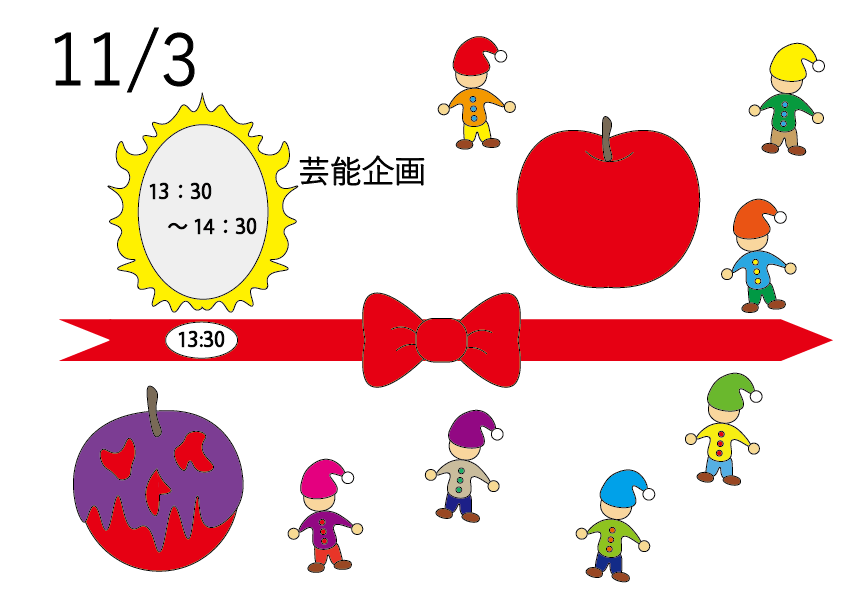
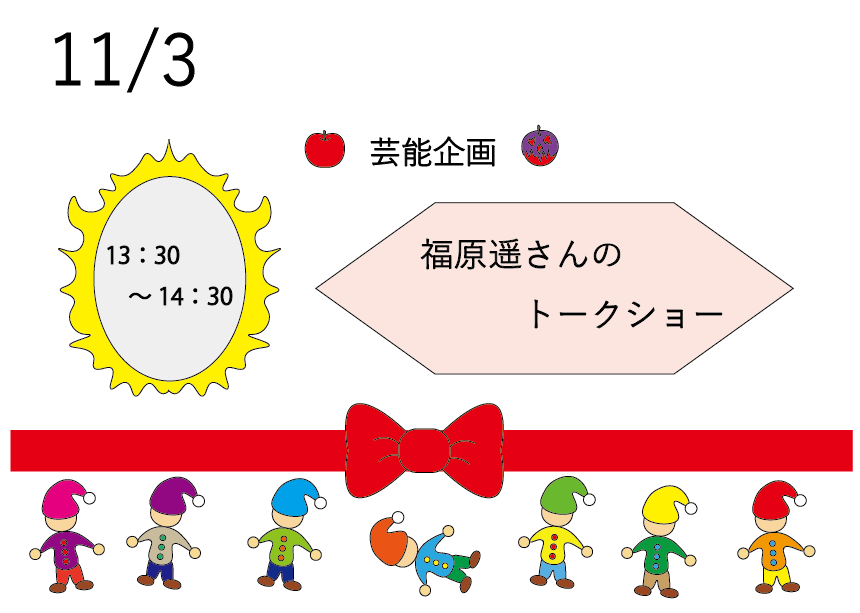
mainstage_fixed

diff --git a/html/page_time-table.html b/html/page_time-table.html
@@ -116,7 +116,6 @@
             </div>
 
             <div class="main-contents">
-                <!--test4 10/25-->
 
                 <!--タブ自体を作る-->
                 <a class="tab_btn" href="#item1">11/1</a>
@@ -132,7 +131,7 @@
                     </div>
 
                     <!--各企画の説明-->
-                    <div class="pc-firstline">
+                    <div class="kikakusetumei">
                         <div class="kikaku-wrapper">
                             <h1>クイズ大会</h1>
                             <h2>10:30～11:40</h2>
@@ -151,6 +150,7 @@
                             <p>芝浦1の美男美女を決めるコンテストです！皆さんの好みの人が見つかるかも...？</p>
                             <a class="detail" href="#">詳しい説明はこちら</a>
                         </div>
+                        <div class="space"></div>
                     </div>
                 </div>
 
@@ -162,7 +162,7 @@
                     </div>
 
                     <!--各企画の説明-->
-                    <div class="pc-firstline">
+                    <div class="kikakusetumei">
                         <div class="kikaku-wrapper">
                             <h1>NewTone</h1>
                             <h2>10:10～12:10</h2>
@@ -181,28 +181,31 @@
                             <p>山路を登りながら、こう考えた。智に働けば角が立つ。情に棹させば流される。意地を通せば窮屈だ。</p>
                             <a class="detail" href="#">詳しい説明はこちら</a>
                         </div>
-                    </div>
-                    <div class="kikaku-wrapper">
-                        <h1>きゃわめんコンテスト</h1>
-                        <h2>16:00～16:50</h2>
-                        <p>女学生の少ない芝浦工大...とうとう男学生が女装を始めました！面白い女装男子がたくさんいるので是非ご覧下さい！！</p>
-                        <a class="detail" href="#">詳しい説明はこちら</a>
+                        <div class="kikaku-wrapper">
+                            <h1>きゃわめんコンテスト</h1>
+                            <h2>16:00～16:50</h2>
+                            <p>女学生の少ない芝浦工大...とうとう男学生が女装を始めました！面白い女装男子がたくさんいるので是非ご覧下さい！！</p>
+                            <a class="detail" href="#">詳しい説明はこちら</a>
+                        </div>
+                        <div class="space"></div>
+                        <div class="space"></div>
+
                     </div>
                 </div>
 
                 <!--3ページ目-->
                 <div class="tab_item" id="item3">
                     <!--タイムテーブル画像を張る-->
-                    <div class="time-table3">
-                        <img src="../images/yone/snow-white.png">
-                    </div>
+                    <div class="page3">
+                        <div class="time-table3">
+                            <img src="../images/yone/snow-white.png">
+                        </div>
 
-                    <!--各企画の説明-->
-                    <div class="pc-firstline">
-                        <div class="kikaku-wrapper">
+                        <!--各企画の説明-->
+                        <div class="geinou-wrapper">
                             <h1>芸能企画</h1>
                             <h2>13:30～14:30</h2>
-                            <p>今年の芸能企画はスペシャルゲストとして福原遥さんが来て下さいました！是非ご覧ください！！
+                            <p>今年はスペシャルゲストとしてまいんちゃんこと”福原遥さん”が来て下さいました！素敵なトークショーを是非ご覧ください！！
                             </p>
                             <a class="detail" href="#">詳しい説明はこちら</a>
                         </div>

diff --git a/css/page_time-table.css b/css/page_time-table.css
@@ -18,8 +18,8 @@
 }
 
 .time-table3 {
-    width: 900px;
-    height: 650px;
+    width: 70%;
+    height: 450px;
     border: solid 1px;
     background-color: rgba(255, 255, 117, 40%);
 }
@@ -28,7 +28,7 @@
     margin: 20px;
     padding: 35px 20px 0px 20px;
     height: 300px;
-    width: 220px;
+    width: 24%;
     background-color: #c0fad0;
     opacity: 0.9;
     border: solid 1px black;
@@ -60,14 +60,6 @@ p {
 
 .detail:hover {
     color: red;
-}
-
-.pc-firstline {
-    display: flex;
-}
-
-.tablet-firstline .tablet-secondline {
-    display: initial;
 }
 
 .tab_item {
@@ -104,6 +96,33 @@ a {
     background-color: green;
     transition: 0.5s;
     color: white;
+}
+
+.page3 {
+    height: 300px;
+    display: flex;
+}
+
+.geinou-wrapper {
+    margin: 20px;
+    padding: 35px 20px 0px 20px;
+    height: 300px;
+    width: 220px;
+    background-color: #c0fad0;
+    opacity: 0.9;
+    border: solid 1px black;
+    border-radius: 20px;
+    box-shadow: 4px 4px 10px 2px #d0cec6;
+}
+
+.kikakusetumei {
+    display: flex;
+    flex-wrap: wrap;
+    justify-content: center;
+}
+
+.space {
+    width: 66%;
 }
 
 .is-active-btn {
@@ -149,24 +168,20 @@ a {
     .kikaku-wrapper {
         margin: 20px;
         padding: 30px 15px 0px 15px;
-        height: 180px;
-        width: 300px;
+        height: 220px;
+        width: 36%;
         border-radius: 17px;
         box-shadow: 4px 4px 10px 2px #d0cec6;
     }
 
     h1 {
-        font-size: 21px;
+        font-size: 19px;
         margin: 0px;
     }
 
     h2 {
         font-size: 17px;
         margin: 5px 5px 20px 5px;
-    }
-
-    .pc-firstline {
-        display: initial;
     }
 
     .tab_item {
@@ -185,13 +200,23 @@ a {
 
     .tab_btn {
         padding: 24px 5px 5px 5px;
-        width: 130px;
+        width: 30%;
         height: 40px;
         border-bottom: solid 1px #E0F2F7;
         display: inline-block;
         font-size: 25px;
         border-radius: 15px 15px 0 0;
     }
+
+    .space {
+        width: 50%;
+    }
+
+    .page3 {
+        display: block;
+    }
+
+
 
 }
 
@@ -264,13 +289,30 @@ a {
 
     .tab_btn {
         padding: 10px 5px 5px 5px;
-        width: 75px;
+        width: 25%;
         height: 25px;
         border-bottom: solid 1px #E0F2F7;
         display: inline-block;
         font-size: 25px;
         text-align: center;
         border-radius: 15px 15px 0 0;
+    }
+
+    .page3 {
+        display: block;
+    }
+
+    .geinou-wrapper {
+        margin: 15px;
+        padding: 15px 12px 0px 12px;
+        height: 170px;
+        width: 220px;
+        border-radius: 15px;
+        box-shadow: 4px 4px 10px 2px #d0cec6;
+    }
+
+    .tablet-firstline {
+        display: block;
     }
 
 }

diff --git a/index.html b/index.html
@@ -353,6 +353,7 @@
                     <div class="companies-wrapper">
                         <a href="https://www.smrc.co.jp" target="_blank"><img src="images/companies/smrc.jpg" class="companies__long-banner"></a>
                         <a href="https://www.tokodenko.co.jp" target="_blank"><img src="images/companies/tokodenko.jpg" class="companies__long-banner"></a>
+                        <a href="https://www.co-yard.com" target="_blank"><img src="images/companies/co-yard.jpg" class="companies__long-banner"></a>
                         <a href="https://www.hexel.co.jp" target="_blank"><img src="images/companies/hexel.png" class="companies__normal-banner"></a>
                         <a href="https://www.canon-electec.co.jp" target="_blank"><img src="images/companies/canon.png" class="companies__normal-banner"></a>
                         <a href="https://www.sit-roompia.jp" target="_blank"><img src="images/companies/seikyo.gif" class="companies__normal-banner"></a>
@@ -414,14 +415,14 @@
                 <div class="footlist-3">
                     <li>開催イベント</li>
                     <li><a href="html/page_geinou.html">芸能人情報</a></li>
-                    <li><a href="html/page_msmr.html">Mr./Mss.SHIBAURA</a></li>
+                    <li><a href="html/page_msmr.html">Mr./Miss.SHIBAURA</a></li>
                     <li><a href="html/page_shibacolle.html">Shibaura Collection</a></li>
                     <li><a href="#">きゃわめんコンテンスト</a></li>
                 </div>
                 <div class="footlist-4">
                     <li></li>
                     <li><a href="index.html">&nbsp;</a></li>
-                    <li><a href="#">Rock'in Shibaura</a></li>
+                    <li><a href="#">Rock in Shibaura</a></li>
                     <li><a href="index.html">大講義室企画</a></li>
                     <li><a href="index.html">ビンゴ大会</a></li>
                     <li><a href="index.html">部活/サークル団体企画</a></li>
